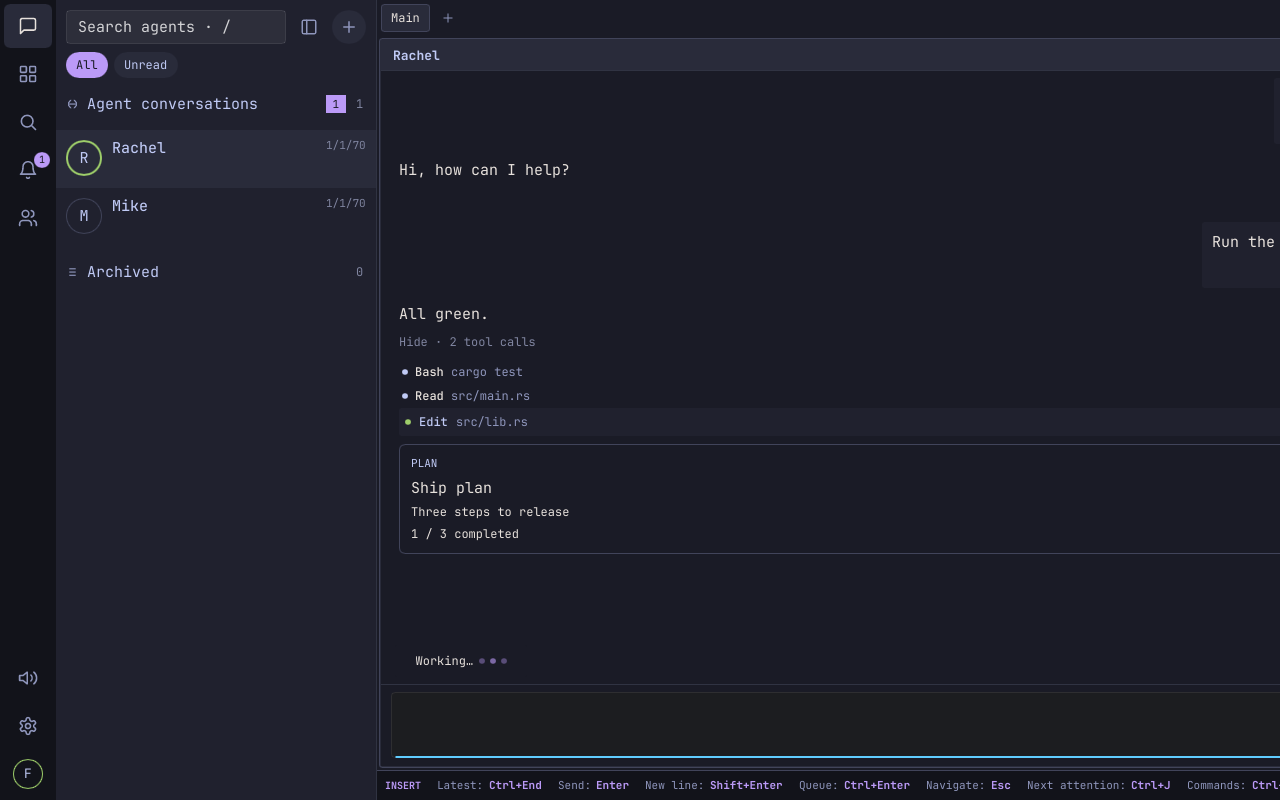
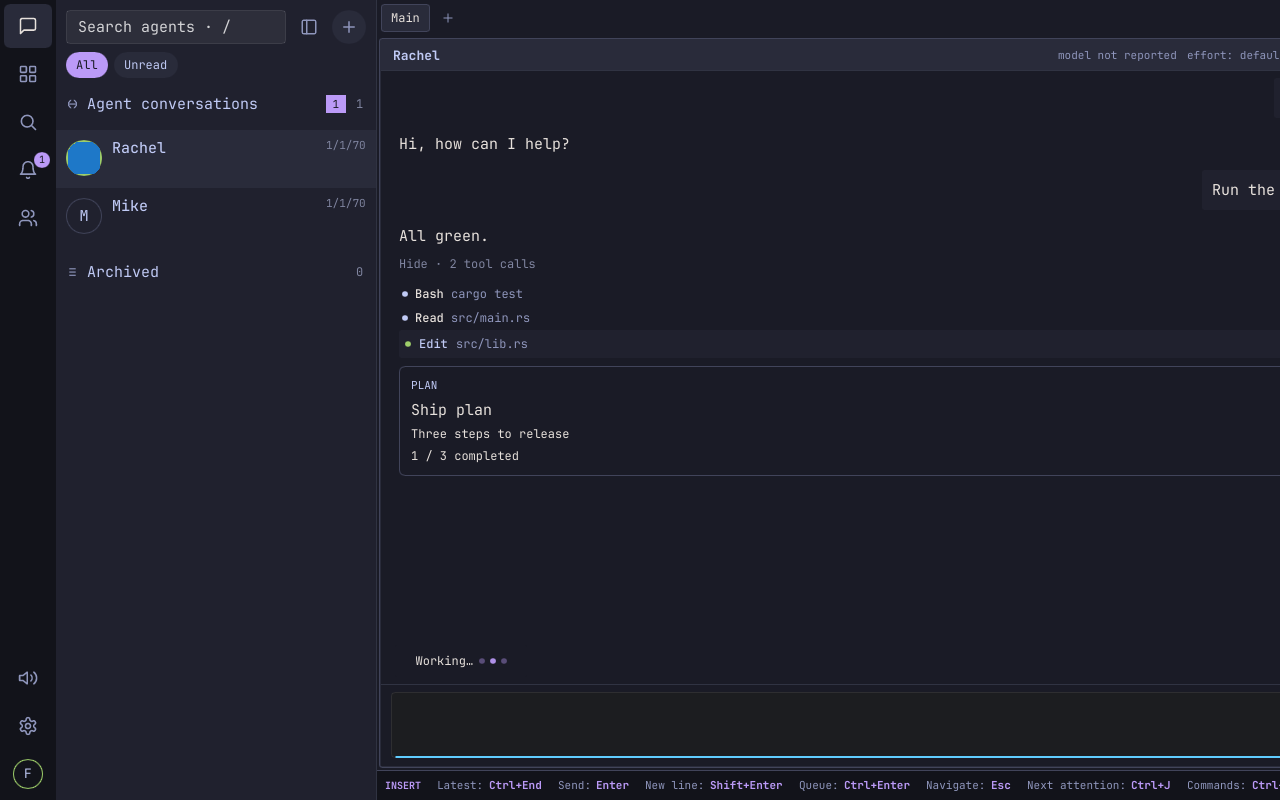
feat(slint): sidebar portraits, finished-helper lines, archive restore and header runtime; sidebar check

diff --git a/desktop-rs/slint-app/src/driver.rs b/desktop-rs/slint-app/src/driver.rs
@@ -318,6 +318,7 @@ pub fn start_check(name: &str, out: String) {
         "connection" => connection_check(out),
         "lifecycle" => lifecycle_check(out),
         "narration" => narration_check(out),
+        "sidebar" => sidebar_check(out),
         // ---- updates and teams
         "updates" => updates_check(out),
         "teams" => teams_check(out),
@@ -1375,6 +1376,116 @@ fn narration_check(out: String) {
             window.invoke_copy_message(app_now().active_id(), "n2".into());
             let copied = std::env::var_os("CLARP_TEST_CLIPBOARD").and_then(|p| std::fs::read_to_string(p).ok()).unwrap_or_default();
             check(copied == "Here they are.", &format!("the copy button copies the message: {copied:?}"));
+            true
+        })),
+    ];
+    run_stages(stages);
+}
+
+/// `--check sidebar --out DIR`: search and the Unread scope filter the
+/// chats, finished helpers fold under their parent, an archived agent is
+/// restored, and the pane header says what the agent runs.
+fn sidebar_check(out: String) {
+    use slint::platform::Key;
+    let out2 = out.clone();
+    fn names(window: &crate::AppWindow) -> Vec<String> {
+        window.get_chats().iter().map(|r| r.name.to_string()).collect()
+    }
+    let stages: Vec<Stage> = vec![
+        ("live", Box::new(|app, window, _| {
+            if app.engine.borrow().conversation("rachel").is_none_or(|c| c.rows().is_empty()) || names(window).len() != 2 {
+                return false;
+            }
+            window.invoke_focus_search();
+            true
+        })),
+        ("search", Box::new(|_, window, _| {
+            if !window.get_search_focused() {
+                return false;
+            }
+            headless::type_text("mik");
+            true
+        })),
+        ("filtered", Box::new(|_, window, _| {
+            if names(window) != ["Mike"] {
+                return false;
+            }
+            check(window.get_keyboard_mode() == "SEARCH", "typing in the search filters the chats to Mike");
+            for _ in 0..3 {
+                headless::press(Key::Backspace);
+            }
+            true
+        })),
+        ("cleared", Box::new(|_, window, _| {
+            if names(window).len() != 2 {
+                return false;
+            }
+            let event = serde_json::json!({"type": "user-notification", "session": "mike", "persona": "Mike", "preview": "news"});
+            check(control("/__control/event", &event).is_ok(), "Mike has news");
+            true
+        })),
+        ("unread", Box::new(|_, window, _| {
+            if !window.get_chats().iter().any(|r| r.session == "mike" && r.unread) {
+                return false;
+            }
+            window.invoke_choose_scope("unread".into());
+            true
+        })),
+        ("unread only", Box::new(|_, window, _| {
+            if names(window) != ["Mike"] {
+                return false;
+            }
+            check(true, "Unread shows only the chats with news");
+            window.invoke_choose_scope("all".into());
+            let helper = serde_json::json!({"session": "mike", "set": {"role": "helper", "parent_agent_id": "a1", "helper_state": "done"}});
+            check(control("/__control/agent", &helper).is_ok(), "Mike becomes Rachel's finished helper");
+            true
+        })),
+        ("folded", Box::new(move |_, window, _| {
+            let Some(rachel) = window.get_chats().iter().find(|r| r.session == "rachel") else { return false };
+            if rachel.done_count != 1 || names(window) != ["Rachel"] {
+                return false;
+            }
+            check(!rachel.done_expanded, "a finished helper folds under its parent as \"1 helper done\"");
+            shot(&out2, "sidebar-01-helpers");
+            window.invoke_done_helpers_toggled(rachel.done_parent);
+            true
+        })),
+        ("unfolded", Box::new(|_, window, _| {
+            if names(window).len() != 2 {
+                return false;
+            }
+            check(true, "the line unfolds the helper");
+            let back = serde_json::json!({"session": "mike", "set": {"role": "agent", "parent_agent_id": "", "helper_state": "", "archived_at": 1790000000}});
+            check(control("/__control/agent", &back).is_ok(), "Mike is archived");
+            true
+        })),
+        ("archived", Box::new(|_, window, _| {
+            if window.get_archived().row_count() != 1 || names(window) != ["Rachel"] {
+                return false;
+            }
+            window.invoke_show_archive(true);
+            let row = window.get_archived().row_data(0).expect("archived row");
+            check(row.archived && row.name == "Mike", "an archived agent leaves the chats for the archive");
+            window.invoke_restore_agent(row.session);
+            true
+        })),
+        ("restored", Box::new(|_, window, _| {
+            if window.get_archived().row_count() != 0 || names(window).len() != 2 {
+                return false;
+            }
+            check(posts("/agent-archive").last().is_some_and(|r| r["body"]["archived"] == false), "Restore brings it back");
+            window.invoke_show_archive(false);
+            let runtime = serde_json::json!({"session": "rachel", "set": {"model": "", "effort": "", "status_text": "Reading the docs"}});
+            check(control("/__control/agent", &runtime).is_ok(), "Rachel reports a status and no model");
+            true
+        })),
+        ("header", Box::new(|_, _window, _| {
+            let pane = view();
+            if pane.status != "Reading the docs" {
+                return false;
+            }
+            check(pane.model.is_empty() && pane.effort.is_empty(), "the header then says the model is not reported and the effort is the default");
             true
         })),
     ];

diff --git a/desktop-rs/slint-app/src/main.rs b/desktop-rs/slint-app/src/main.rs
@@ -149,8 +149,37 @@ impl App {
             .visible(&trees, &filters)
             .into_iter()
             .filter_map(|session| rows.iter().find(|r| r.session == session))
-            .map(|row| chat_row(row, sidebar.depth(&row.session), selected))
+            .map(|row| {
+                let mut chat = chat_row(row, sidebar.depth(&row.session), selected);
+                if let Some(line) = sidebar.footers(&row.session).first() {
+                    chat.done_parent = line.parent_agent_id.clone().into();
+                    chat.done_count = line.count as i32;
+                    chat.done_expanded = line.expanded;
+                }
+                chat
+            })
             .collect()
+    }
+
+    /// Portraits for the chat list: an agent's own, a pair room's two
+    /// agents' (from `pair:<agent>:<agent>`).
+    fn with_portraits(&self, mut rows: Vec<ChatRow>) -> Vec<ChatRow> {
+        for row in &mut rows {
+            let session = row.session.to_string();
+            if let Some(pair) = session.strip_prefix("pair:") {
+                let sessions: Vec<String> = {
+                    let engine = self.engine.borrow();
+                    pair.split(':').filter_map(|id| engine.roster().find_by_agent_id(id).map(|a| a.session.clone())).collect()
+                };
+                if let [first, second] = sessions.as_slice() {
+                    row.portrait = profile_view::portrait(self, first);
+                    row.portrait2 = profile_view::portrait(self, second);
+                }
+            } else {
+                row.portrait = profile_view::portrait(self, &session);
+            }
+        }
+        rows
     }
 
     fn refresh(&self, changes: &[Change]) {
@@ -160,9 +189,13 @@ impl App {
             apply_theme(&window, &engine.reading_theme());
         }
         let selected = engine.selected_session().to_owned();
-        let list_changed = changes.iter().any(|c| matches!(c, Change::Roster | Change::Selection | Change::Rooms | Change::Archive));
+        let list_changed = changes.iter().any(|c| matches!(c, Change::Roster | Change::Selection | Change::Rooms | Change::Archive | Change::Avatars));
+        drop(engine);
         if list_changed {
-            self.chats.set_vec(self.chat_rows(&engine, &window));
+            let chats = self.chat_rows(&self.engine.borrow(), &window);
+            let chats = self.with_portraits(chats);
+            self.chats.set_vec(chats);
+            let engine = self.engine.borrow();
             let rooms: Vec<ChatRow> = engine
                 .rooms()
                 .iter()
@@ -182,12 +215,19 @@ impl App {
                     }
                 })
                 .collect();
-            self.rooms.set_vec(rooms);
-            let archived: Vec<ChatRow> = engine.archived().rows().iter().map(|row| chat_row(row, 0, &selected)).collect();
-            self.archived.set_vec(archived);
+            let archived: Vec<ChatRow> = engine
+                .archived()
+                .rows()
+                .iter()
+                .map(|row| ChatRow { archived: true, ..chat_row(row, 0, &selected) })
+                .collect();
             window.set_unread_rooms(engine.unread_rooms() as i32);
+            drop(engine);
+            let rooms = self.with_portraits(rooms);
+            self.rooms.set_vec(rooms);
+            let archived = self.with_portraits(archived);
+            self.archived.set_vec(archived);
         }
-        drop(engine);
         self.refresh_panes(&window, changes);
         // A chat opens ready to type into, unless the reader is scrolling.
         if changes.contains(&Change::Selection) && !self.active_report().transcript_focused {
@@ -386,6 +426,15 @@ fn main() {
     });
     APP.with(|a| *a.borrow_mut() = Some(state.clone()));
 
+    window.on_done_helpers_toggled(|parent| with_window(|app, _| {
+        if app.sidebar.borrow_mut().toggle_done_helpers(&parent) {
+            app.refresh(&[Change::Roster]);
+        }
+    }));
+    window.on_restore_agent(|session| with_window(|app, _| {
+        app.engine.borrow_mut().set_agent_archived(&session, false);
+        pump_now(app);
+    }));
     window.on_chat_chosen(|session| {
         if let Some(app) = app() {
             app.engine.borrow_mut().select(&session);

diff --git a/desktop-rs/app/tests/fake_host.py b/desktop-rs/app/tests/fake_host.py
@@ -518,6 +518,14 @@ class Handler(BaseHTTPRequestHandler):
             with state_lock:
                 attention[:] = [a for a in attention if a.get("id") != decision]
             return self.reply(200, {"ok": True, "decision_id": decision, "status": body.get("choice")})
+        if url.path == "/agent-archive":
+            # Archive or restore: the agent's row moves and the roster says so.
+            with state_lock:
+                for agent in agents:
+                    if agent["session"] == body.get("session"):
+                        agent["archived_at"] = int(time.time()) if body.get("archived") else None
+            broadcast({"type": "agent-roster", "session": body.get("session"), "kind": "updated"})
+            return self.reply(200, {"ok": True})
         if url.path in ("/select", "/stop", "/compact", "/agent-schedules/toggle", "/team-nudging") or url.path.startswith("/agent-"):
             return self.reply(200, {"ok": True})
         if url.path == "/agents":

diff --git a/desktop-rs/slint-app/src/panes.rs b/desktop-rs/slint-app/src/panes.rs
@@ -195,6 +195,8 @@ impl App {
         view.pair = session.starts_with("pair:");
         view.model = agent.map(|a| a.model.clone()).unwrap_or_default().into();
         view.effort = agent.map(|a| a.effort.clone()).unwrap_or_default().into();
+        view.status = agent.map(|a| a.status_text.clone()).unwrap_or_default().into();
+        view.default_effort = agent.map(|a| engine.default_effort_for_model(&a.backend, &a.model)).unwrap_or_default().into();
         view.busy = agent.is_some_and(|a| a.busy);
         view.working = crate::cells_view::working(engine, session);
         let path = agent.map(|a| a.working_directory.clone()).unwrap_or_default();

diff --git a/desktop-rs/slint-app/src/view.rs b/desktop-rs/slint-app/src/view.rs
@@ -135,6 +135,7 @@ pub(crate) fn chat_row(row: &clarp_core::roster::AgentRow, depth: usize, selecte
         jobs: row.background_job_count,
         sub_agents: row.sub_agent_count,
         children: row.running_children,
+        ..ChatRow::default()
     }
 }
 

diff --git a/desktop-rs/SLINT_PARITY.md b/desktop-rs/SLINT_PARITY.md
@@ -18,7 +18,7 @@ over `engine/`, so its behaviour tests run against the engine without a UI.
 
 | QML file | Lines | Slint target | Status |
 |---|---|---|---|
-| `qml/Main.qml` | 874 | `slint-app/ui/app.slint` + `slint-app/src/main.rs` | wip: window, header with connection state, error banner, sidebar/transcript/composer layout on `clarp-engine`; e2e `slint-app/tests/run-e2e.sh` (roster, send, streaming, second chat) passes |
+| `qml/Main.qml` | 874 | `slint-app/ui/app.slint` + `slint-app/src/main.rs` (window, surfaces, overlays, keyboard map dispatch, launch options, startup theme/scale) + `commands.rs` (`runCommand`) | verified: every `check.sh` check and the e2e `slint-app/tests/run-e2e.sh` against `tests/qa/host.py` (`docs/e2e/`) |
 | `qml/PreviewVersionWindow.qml` | 42 | `slint-app/ui/preview.slint` `PreviewWindow` (`clarp-slint --preview-versions`) | wip: builds and shares the panel; the manager mode is not driven by a check (it needs the preview helper) |
 | `qml/components/ActivityExplanation.qml` | 134 | `engine/src/narrator.rs` over `clarp_core::narrator` (cached explanations in the presentation pass, batched `/tool-explanations` requests, detail level kept) + `slint-app/src/panes.rs` (the latest 40 rows' open tool calls are asked for, instead of tracking the viewport) + `ToolCard` (explanation in place of the call, "…" while pending, the call again when it failed) + `cells_view.rs` (repeats left out) | verified: `check.sh narration` (`docs/checks/narration-01.png`), `engine/tests/host_flow.rs::tool_activity_is_explained_in_plain_english_once_asked`; dots do not animate |
 | `qml/components/ActivitySweep.qml` | 15 | `slint-app/ui/avatar.slint` `ActivitySweep` (band driven by the avatar's phase; none with `appearance/reducedMotion`) | verified: `check.sh overview` (Mike's working card, `docs/checks/overview-01.png`); not yet in the sidebar rows or the pane header |
@@ -30,23 +30,23 @@ over `engine/`, so its behaviour tests run against the engine without a UI.
 | `qml/components/AssignAgentDialog.qml` | 146 | `slint-app/ui/agent_dialogs.slint` (`AssignAgentDialog`) + `slint-app/src/agent_dialogs_view.rs` | verified: `slint-app/tests/check.sh agent-dialogs` (Ctrl+A, Up/Down choice with wrap, choose a contact, a refused new name keeps the Host's reason, Ctrl+Shift+A assigns at once, Escape; `docs/checks/agent-dialogs-02-assign.png`, `agent-dialogs-03-assign-refused.png`); also opens on the engine's `AssignmentRequested`. Radio rows are drawn (Slint has no radio button); the contact list is a ComboBox reached by mouse or Tab |
 | `qml/components/AttachFileDialog.qml` | 12 | `slint-app/src/main.rs` `choose_attachment` (desktop portal file chooser via `rfd`, off the UI thread) | wip: the chooser itself is not opened in checks (`CLARP_TEST_ATTACH_FILE` stands in); drag-and-drop pending (Slint has no file drop; winit 0.30 has none on Wayland) |
 | `qml/components/AvatarActivity.qml` | 38 | `slint-app/ui/avatar.slint` `AvatarActivity` (breathing ring from `animation-tick`, still at 0.6 with `appearance/reducedMotion`) | verified: `check.sh overview` (`docs/checks/overview-01.png`); uses the agent's `busy`, not the Qt motion clock's episode; no scale pulse; not yet in the sidebar rows |
-| `qml/components/ChatList.qml` | 456 | `slint-app/ui/sidebar.slint` (search, All/Unread, pair rooms and archive rows, nesting via `clarp_core::sidebar`) | wip: in the e2e; keyboard navigation, hide/collapse, restore from archive and a search/scope check pending |
-| `qml/components/ChatRow.qml` | 301 | `slint-app/ui/sidebar.slint` `Row` (name, stamp, preview, activity line, queue, muted, unread, busy ring, helper depth, process indicator) | wip: process indicator verified by `check.sh updates` (`docs/checks/updates-01-processes.png`); portraits, done-helpers lines and the collapsed rail's indicator pending |
+| `qml/components/ChatList.qml` | 456 | `slint-app/ui/sidebar.slint` (search, All/Unread, pair rooms and archive rows with Restore, nesting and "N helpers done" via `clarp_core::sidebar`, J/K/Enter) | verified: `check.sh sidebar` (search, Unread, folded helpers, archive and restore; `docs/checks/sidebar-01-helpers.png`), `check.sh panes` (keyboard), `check.sh connection` (Ctrl+B) |
+| `qml/components/ChatRow.qml` | 301 | `slint-app/ui/sidebar.slint` `Row` (portrait via `engine/src/avatars.rs`, name, stamp, preview, activity line, queue, muted, unread, busy ring, helper depth, process indicator, done-helpers line, archived Restore) | verified: `check.sh sidebar`, `check.sh updates` (process indicator); QML's collapsed rail is never collapsed by the app, so it has no Slint counterpart |
 | `qml/components/Composer.qml` | 461 | `slint-app/ui/composer.slint` + `engine/src/composer.rs` (per-chat drafts flushed after 1 s idle and on close, attachments with upload/shared-filesystem, chips with thumbnails, queue and quota notices, Enter/Shift+Enter/Ctrl+Enter/Ctrl+End/Escape/Ctrl+Shift+O, send/stop) | verified: `engine/tests/host_flow.rs::drafts_and_attachments_belong_to_the_chat_and_survive_a_restart`, `slint-app/tests/check.sh composer` (`docs/checks/composer-01-notices.png`); clipboard image paste, transcription line and Silence button arrive with the platform/audio step; starting-contact line with the start-agent dialog |
 | `qml/components/ConnectionPage.qml` | 151 | `slint-app/ui/dialogs.slint` `ConnectionPage` on `Modal` + `engine/src/connection.rs` (connect, pair, forget; keyring behind `Config::keyring` / `CLARP_KEYRING=off`); shown by itself with no Host and no agents, from the nav rail's Host button and the `connection` action | verified: `slint-app/tests/check.sh connection` (wrong token refused, right token live, one-time code pairs with the device token, `docs/checks/connection-01.png`), `engine/tests/host_flow.rs::connecting_pairing_and_forgetting_a_host` |
 | `qml/components/ConversationPane.qml` | 575 | `slint-app/ui/workspace.slint` `Pane` (header, transcript, composer per pane; pair rooms read-only) | verified: `slint-app/tests/check.sh panes` (`docs/checks/panes-01-split.png`), `engine/tests/host_flow.rs::panes_follow_the_selection_and_their_layout_is_restored`; typing indicator and pair participants pending |
 | `qml/components/DeferredPanel.qml` | 74 | not needed: it lazily loads QML panels by URL to save launch time; Slint compiles every panel into the binary, so there is nothing to defer | n/a (startup cost is measured in the performance comparison) |
 | `qml/components/DisplayCellCard.qml` | 200 | `slint-app/ui/cells.slint` `DisplayCellCard` + `cells_view::display_cell` (status dot, sub-agent glyph/phase/name/task, title, summary, +/− detail lines with diff and error colours, "N more details available"); cells counted in the activity toggle and shown before the tool cards, which then show only edits (MessageDelegate.qml) | verified: `check.sh extras` (`docs/checks/extras-01-cells.png`); text is not selectable (Slint), the sub-agent glyph is a static ◆ until ProcessGlyph is ported |
-| `qml/components/HeaderContext.qml` | 115 | `slint-app/ui/workspace.slint` `Header` (name, workspace kind icon and label via `clarp_core::workspace`, model · effort, working) | wip: in `panes-01-split.png`; runtime popover pending |
+| `qml/components/HeaderContext.qml` | 115 | `slint-app/ui/workspace.slint` `Header` (name opening the profile, workspace kind icon and label via `clarp_core::workspace`, status, model or "model not reported", effort or the provider default or "effort: default"; explanations as accessible labels since Slint has no tooltips) | verified: `check.sh sidebar` (status, unreported model, default effort), `panes-01-split.png` |
 | `qml/components/KeyboardMap.qml` | 146 | `slint-app/src/keymap.rs` (same states, parents, guards, overrides, import validation) + `slint-app/src/commands.rs` (Main.qml `runCommand`) with one root key handler in `app.slint` | verified: `keymap::tests` (4) and `check.sh panes` (Ctrl+Alt+V/Left/Z/X, Escape, E, J, Enter, Ctrl+Shift+K typed through the map); actions of unported dialogs fall through to the focused control until their step |
 | `qml/components/KeymapEditor.qml` | 32 | `slint-app/ui/dialogs.slint` `KeymapEditor` on the shared `Modal` (Escape / click outside close) + `commands.rs` (bindings in settings `keymap/bindings`, validated by `keymap::import`) | verified: `slint-app/tests/check.sh keymap` (`docs/checks/keymap-01.png`) |
 | `qml/components/LaunchDirectoryPicker.qml` | 113 | `slint-app/ui/launch.slint` (`DirectoryPicker`, inside the hub) + `slint-app/src/launch_view.rs` | verified: `slint-app/tests/check.sh launch` (Ctrl+Alt+D, typed query against the Host's launch directories, Enter chooses; `docs/checks/launch-03-directory.png`). Same rules as QML: "~" for an empty query, 80 ms query delay, Enter while loading chooses once the Host answers, Tab completes |
 | `qml/components/MediaGallery.qml` | 163 | `slint-app/ui/media.slint` `MediaGallery` (compact/expanded, horizontal strip, captions, loading dots) and `MediaViewer` (full size, Escape / click outside) + `profile_view` (`load_media`, `media_for_session`, `media_source`) | verified: `check.sh profile` (8×8 image fetched and shown, viewer `docs/checks/profile-03-media.png`) |
 | `qml/components/MessageDelegate.qml` | 538 | `slint-app/ui/transcript.slint` `Block`/message rows + `engine/src/blocks.rs` (headings, prose/lists via StyledText, code, quotes, tables, rules; `blocks::tests`), timestamps, agent sender labels, pending/not-delivered, activity toggle, display cells and artifact cards (`cells.slint`), a copy button on hover | verified: `check.sh transcript`, `extras`, `narration` (copy), renders in both themes (`slint-app/docs/screens/`). Needs your call: text inside a message cannot be selected (Slint's StyledText has no selection); the copy button copies the whole message instead |
-| `qml/components/NavRail.qml` | 145 | `slint-app/ui/navrail.slint` (same SVG icons, attention badge from `engine.attention_count()`, mute, settings, Host initial); chats/updates/teams/settings switch through `commands::run` | wip: `check.sh updates` (badge counts 2 then 1, rail opens the Updates), `check.sh settings`; overview pending |
+| `qml/components/NavRail.qml` | 145 | `slint-app/ui/navrail.slint` (same SVG icons, attention badge from `engine.attention_count()`, mute, overview, search, settings, Host initial opening the connection page) | verified: `check.sh updates` (badge, rail), `check.sh overview`, `check.sh settings`, `check.sh connection` |
 | `qml/components/NewSessionHub.qml` | 458 | `slint-app/ui/launch.slint` (`NewSessionHub`, `LaunchHub` global) + `slint-app/src/launch_view.rs` | verified: `launch_view::tests` (2), `slint-app/tests/check.sh launch` (Ctrl+N and the sidebar's +, the "launch" keyboard state, Ctrl+Right provider, model/effort editor, contact search, Enter quick-start, Ctrl+Alt+D folder, New contact creation, the empty-pool fallback to New contact, Escape stepping back, click outside, "Connect to a server first" offline; `docs/checks/launch-01-hub.png` … `launch-06-offline.png`). Changes: cards show the initial, not the persona portrait (no AgentAvatar yet); the model menus list "Server default" once (QML also showed the catalog's "Provider default"); `quick-new-agent` opens the hub as in QML. Left: the command-line launch (`--backend …`) is not parsed by `main.rs` yet; `launch_view::open_launch` implements it (the check drives it) |
 | `qml/components/OrchestratorDialog.qml` | 193 | `slint-app/ui/orchestrator.slint` + `slint-app/src/orchestrator_view.rs` (fields refilled whenever the settings finish loading, Save disabled until then, last decision) from the `orchestrator` action, the settings row and the overview | verified: `check.sh overview` (load, edit, save body, return to the overview, open alone and close by click outside; `docs/checks/overview-02-orchestrator.png`). Changes: Cancel/Save are icons; the empty effort entry reads "default" |
-| `qml/components/PairRow.qml` | 117 | `slint-app/ui/sidebar.slint` room rows + `engine` rooms (unread from seen revisions; `engine/tests/host_flow.rs::pair_rooms_load_unread_and_are_read_once_opened`) | wip: participants' portraits pending |
+| `qml/components/PairRow.qml` | 117 | `slint-app/ui/sidebar.slint` room rows (both agents' portraits from `pair:<agent>:<agent>`) + `engine` rooms (unread from seen revisions) | verified: `engine/tests/host_flow.rs::pair_rooms_load_unread_and_are_read_once_opened`, the rooms list in `check.sh sidebar` screenshots |
 | `qml/components/PaneLeaf.qml` | 69 | `slint-app/ui/workspace.slint` `Pane` (active highlight, click to activate) | verified: `slint-app/tests/check.sh panes` (`docs/checks/panes-01-split.png`), `engine/tests/host_flow.rs::panes_follow_the_selection_and_their_layout_is_restored` |
 | `qml/components/PreviewVersionPanel.qml` | 114 | `slint-app/ui/preview.slint` `PreviewPanel` + `PreviewBanner` on `Modal` + `slint-app/src/preview_view.rs` over `clarp_core::preview` (helper off the UI thread, 15 s refresh, relaunch on the same Host and chat) | verified: `CLARP_TEST_PREVIEW_FIXTURE=1 check.sh preview` (banner, Ctrl+Alt+U, panel from the switcher, Down/Enter, Escape; `docs/checks/preview-01-banner.png`); only enabled in the worktree-preview install, as in Qt |
 | `qml/components/ProcessGlyph.qml` | 118 | `slint-app/ui/processes.slint` `ProcessGlyph` (hourglass / agent as SVGs under `ui/icons/`, coloured by the theme's link colour) | verified: `check.sh updates` (`docs/checks/updates-01-processes.png`); the running sub-agent's hop animation waits for the motion clock (reduced motion) port |
